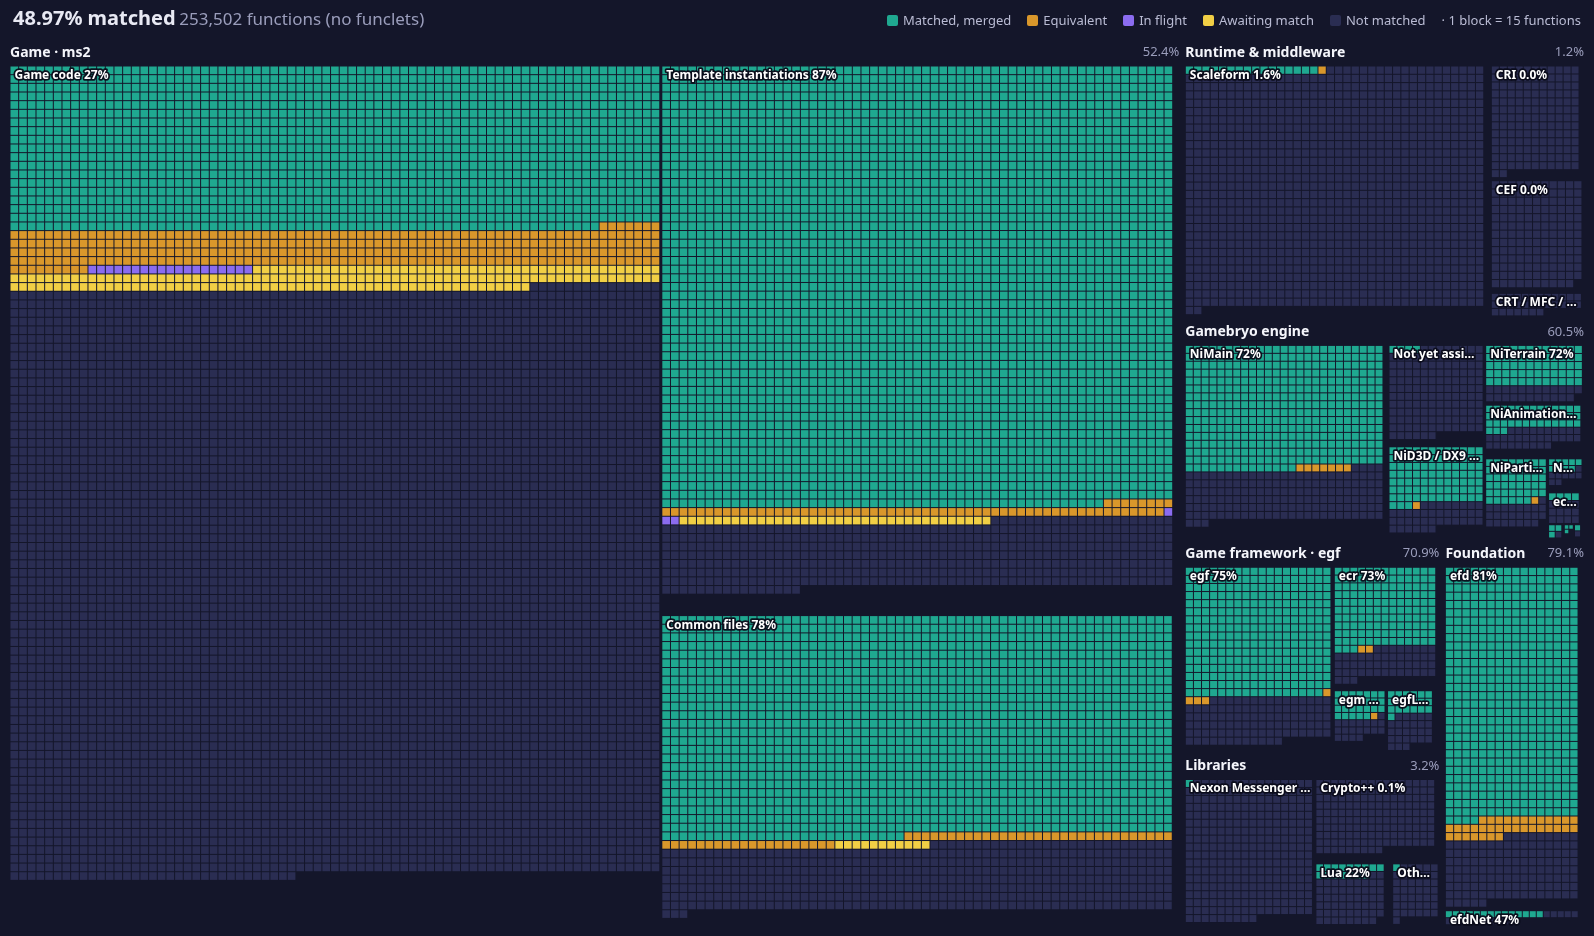
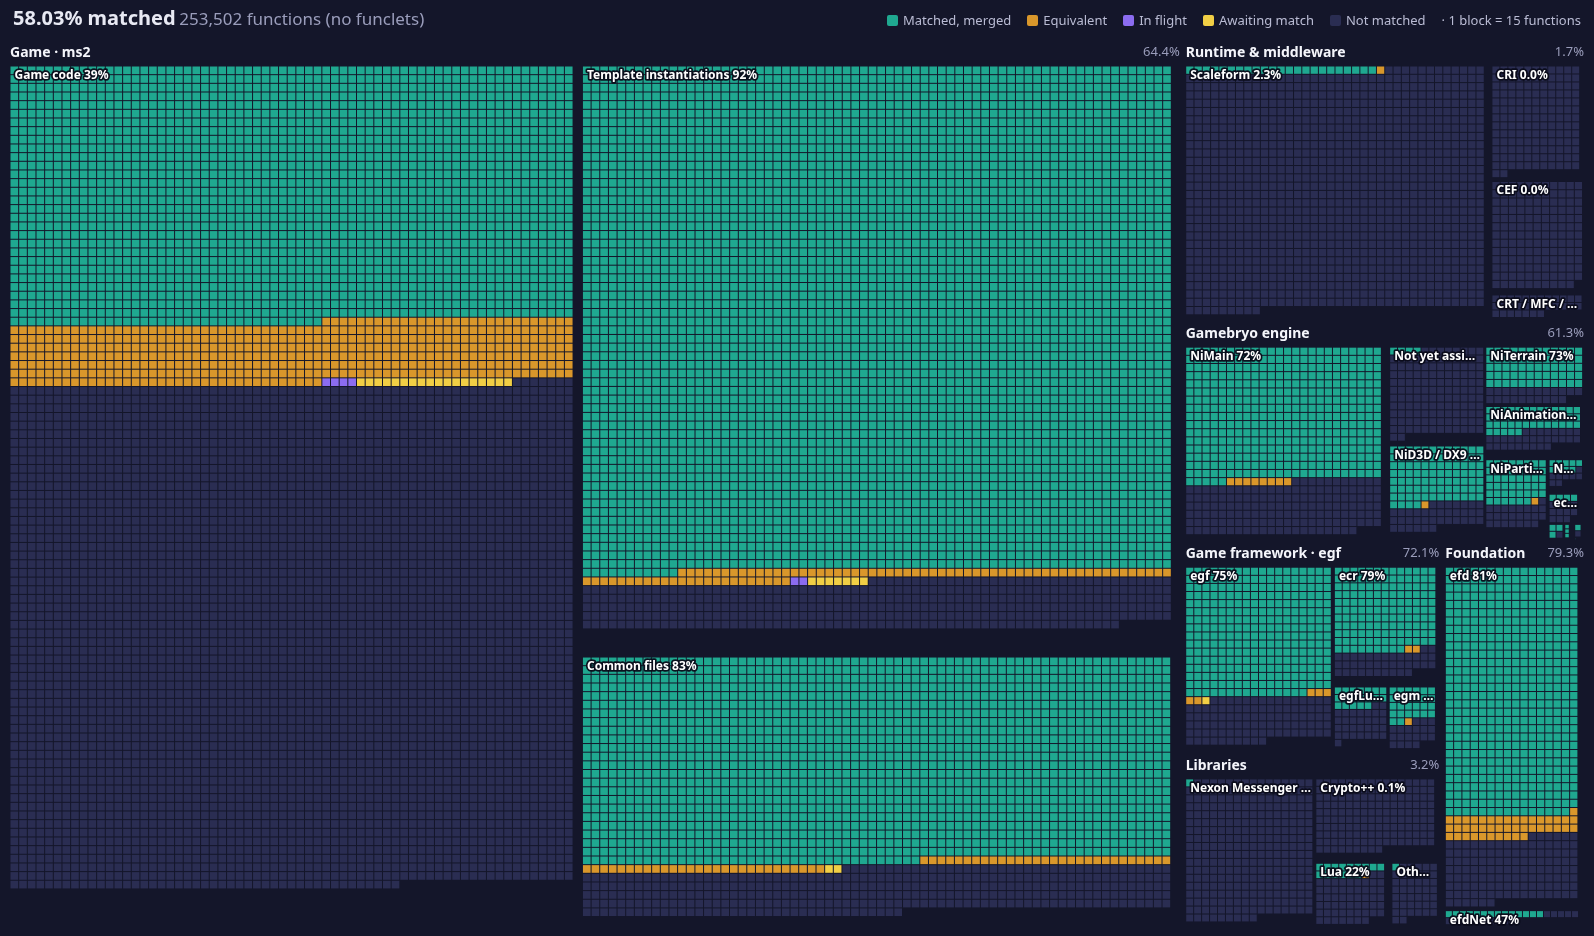
README: refresh progress image and table

diff --git a/README.md b/README.md
@@ -25,13 +25,13 @@ Merged totals by area (functions in the original executable; regenerated on each
 <!-- progress:start -->
 | Area | Functions | Matched | Equivalent | Done |
 |---|---:|---:|---:|---:|
-| Game · ms2 | 188,576 | 88,821 (47.1%) | 6,497 (3.4%) | 50.5% |
-| Runtime & middleware | 20,430 | 237 (1.2%) | 14 (0.1%) | 1.2% |
-| Gamebryo engine | 16,221 | 9,657 (59.5%) | 150 (0.9%) | 60.5% |
-| Game framework · egf | 9,971 | 6,951 (69.7%) | 118 (1.2%) | 70.9% |
-| Libraries | 8,199 | 258 (3.1%) | 4 (0.0%) | 3.2% |
-| Foundation | 10,105 | 7,460 (73.8%) | 526 (5.2%) | 79.0% |
-| **Total** | **253,502** | 113,384 (44.7%) | 7,309 (2.9%) | 47.6% |
+| Game · ms2 | 188,636 | 112,163 (59.5%) | 8,886 (4.7%) | 64.2% |
+| Runtime & middleware | 20,539 | 339 (1.7%) | 19 (0.1%) | 1.7% |
+| Gamebryo engine | 16,075 | 9,693 (60.3%) | 155 (1.0%) | 61.3% |
+| Game framework · egf | 9,929 | 7,020 (70.7%) | 134 (1.3%) | 72.1% |
+| Libraries | 8,214 | 259 (3.2%) | 3 (0.0%) | 3.2% |
+| Foundation | 10,109 | 7,379 (73.0%) | 636 (6.3%) | 79.3% |
+| **Total** | **253,502** | 136,853 (54.0%) | 9,833 (3.9%) | 57.9% |
 <!-- progress:end -->
 
 ## Layout
